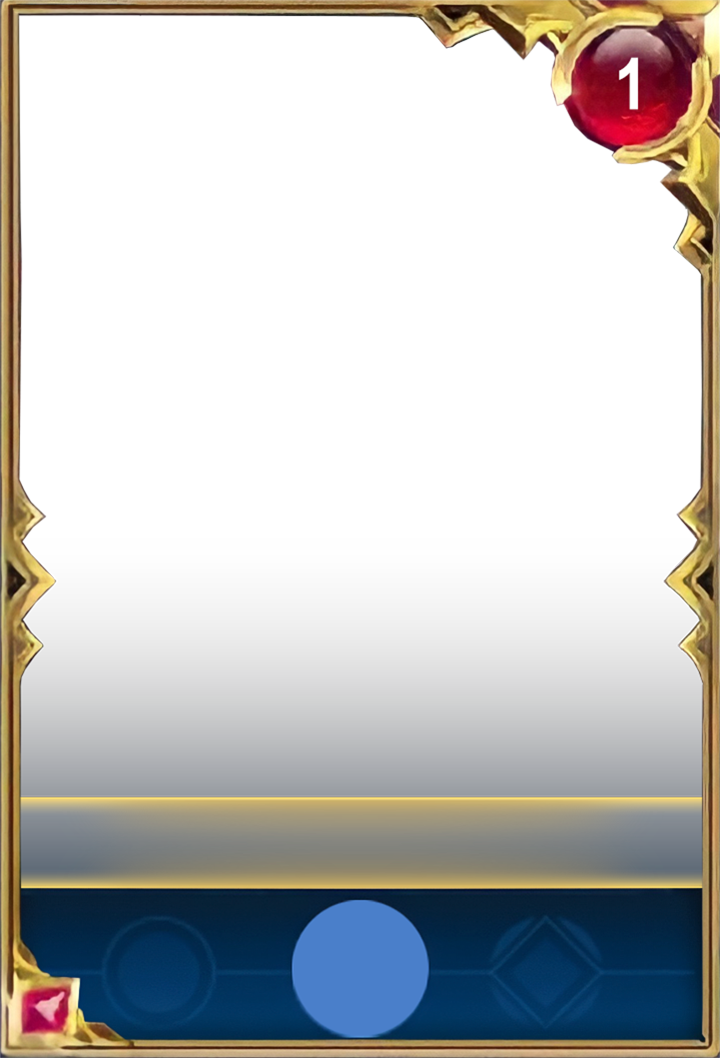
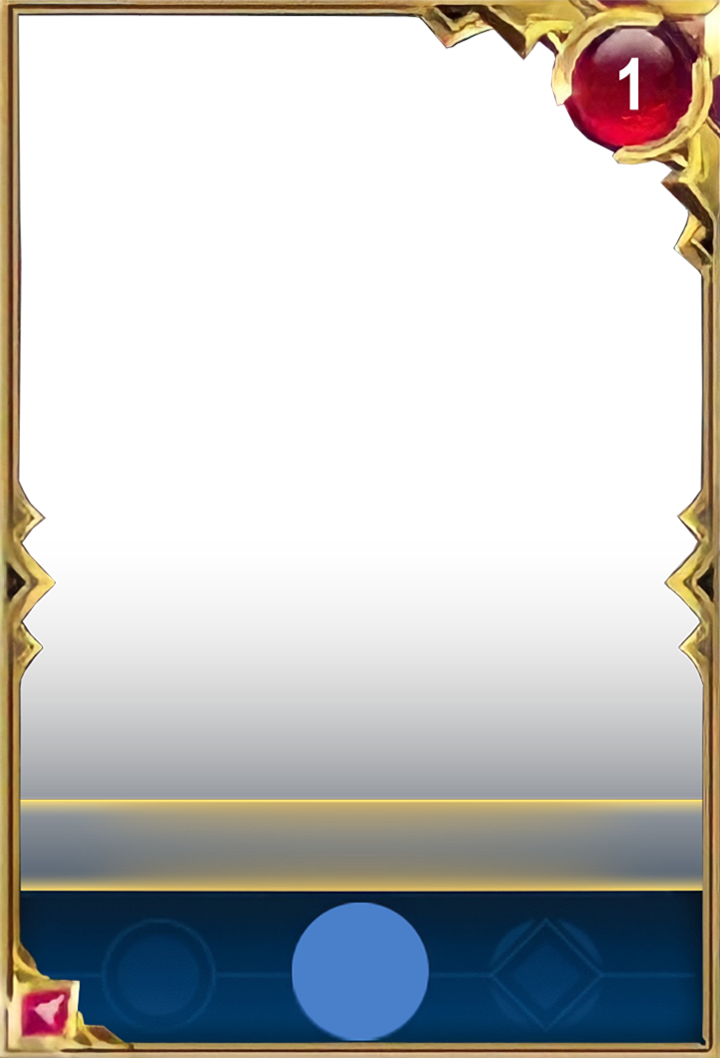
a

diff --git a/tad/effect/khung-lq/index.html b/tad/effect/khung-lq/index.html
@@ -39,7 +39,7 @@
 
         var a = new Image();
         a.crossOrigin = "Anonymous";
-        a.src = "./rank/caothu.png";
+        a.src = "./rank/thachdau.png";
         a.onload = function () {
             var az = new Image();
         az.crossOrigin = "Anonymous";
@@ -80,7 +80,7 @@
                 ctx.drawImage(a, 0, 0, c.width, c.height);
                 var btw = 128;
                 ctx.drawImage(a2, c.width / 2 - btw / 2, 905, btw, btw);
-                ctx.drawImage(az, 15, 8, az.width, az.height);
+                ctx.drawImage(az, 8, 8, az.width, az.height);
 
                 ctx.drawImage(a4, 108, 930, 90 * 27/24, 90);
           
